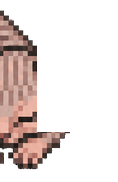
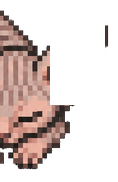
Corrige recorte da orelha do Sphynx (comia parte do queixo) e reduz o balanco
O recorte antigo da orelha ia fundo demais e apagava parte do contorno
do queixo do gato quando montava o corpo de volta. Encolhe a caixa pra
pegar so a orelha de verdade, e reduz um pouco mais a amplitude do
balanco (pedido explicito pra ficar mais sutil).

Claude-Session: https://claude.ai/code/session_015PKALTMabxEeAhXa7bbh6h

Changed region(s): [[0.3051, 0.2473, 0.6356, 0.7418], [0.8898, 0.1374, 0.9153, 0.2747]]

diff --git a/src/main.js b/src/main.js
@@ -45,12 +45,12 @@ const PET_ROOM_SPRITES = {
     body: 'pet_gato_sphynx_body.png',
     headBase: 'pet_gato_sphynx_head_base.png',
     ear: 'pet_gato_sphynx_ear.png',
-    earBox: { x: 37, y: 18, w: 73, h: 114 },
-    earPivot: { x: 73.5, y: 132 },
+    earBox: { x: 50, y: 18, w: 55, h: 87 },
+    earPivot: { x: 77.5, y: 105 },
   },
 };
 const PET_ROOM_ART_HEIGHT_PX = 46;
-const PET_EAR_WIGGLE_MAX_RAD = 0.1;
+const PET_EAR_WIGGLE_MAX_RAD = 0.06;
 const PET_EAR_WIGGLE_PERIOD_MS = 1300;
 // Deslocamento em pixels de tela pra tirar o pet da borda da cama (perto
 // do travesseiro, onde fica o tile de interacao) e por mais perto do meio
